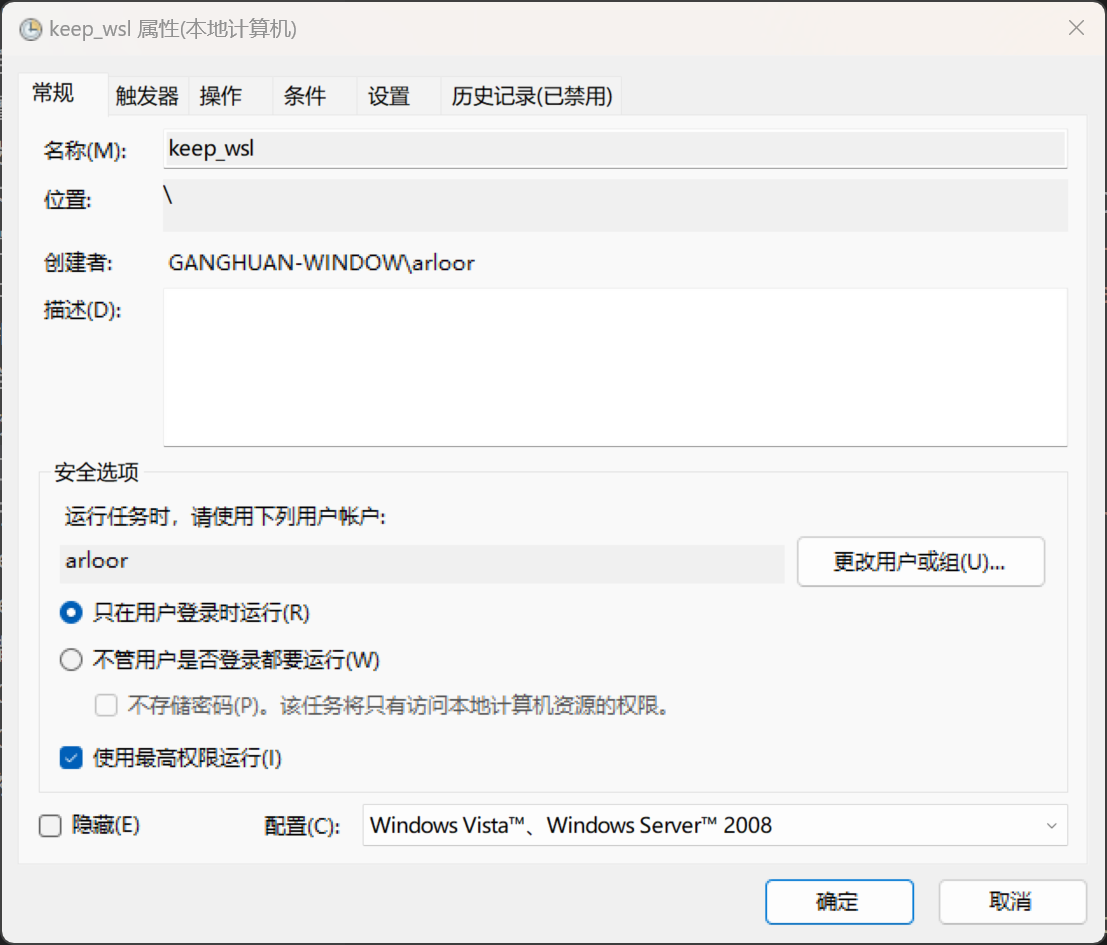
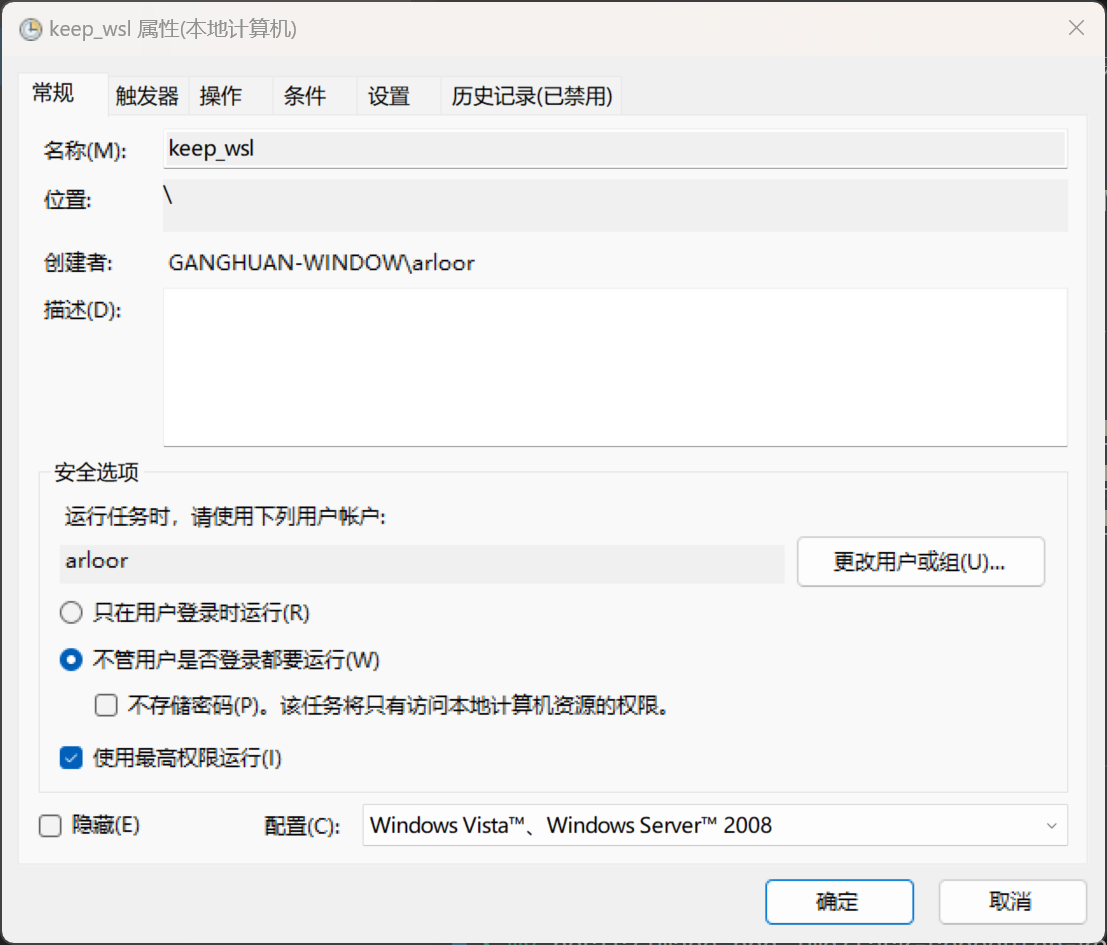
updates from 7b08df96

Changed region(s): [[0.0921, 0.7365, 0.6143, 0.7672], [0.0307, 0.6444, 0.0921, 0.7058], [0.9828, 0.982, 1.0, 1.0]]

diff --git a/posts/windows11-23h2-wsl2/index.html b/posts/windows11-23h2-wsl2/index.html
@@ -535,7 +535,7 @@ Built with <a href="https://gohugo.io">Hugo</a> ❤ <a href="https://github.c
 </span></span><span style="display:flex;"><span>ws.run <span style="color:#e6db74">&#34;wsl -d Debian /usr/local/bin/keepalive&#34;</span>, <span style="color:#ae81ff">0</span>
 </span></span></code></pre></div><p>将这个VBS脚本的快捷方式放到启动文件夹，这样就可以在开机时自动运行了。启动文件夹在：</p>
 <div class="highlight"><pre tabindex="0" style="color:#f8f8f2;background-color:#272822;-moz-tab-size:4;-o-tab-size:4;tab-size:4;"><code class="language-bash" data-lang="bash"><span style="display:flex;"><span>%userprofile%<span style="color:#ae81ff">\A</span>ppData<span style="color:#ae81ff">\R</span>oaming<span style="color:#ae81ff">\M</span>icrosoft<span style="color:#ae81ff">\W</span>indows<span style="color:#ae81ff">\S</span>tart Menu<span style="color:#ae81ff">\P</span>rograms<span style="color:#ae81ff">\S</span>tartup
-</span></span></code></pre></div><p>或者使用windows的任务计划程序设置为用户登录时自动运行：</p>
+</span></span></code></pre></div><p>或者使用windows的任务计划程序设置为用户登录时自动运行，参考<a href="https://www.sjdhome.com/blog/post/wsl2-auto-start/">实现 WSL 2 开机免登录自动启动</a>：</p>
 <p><img src="/img/task-scheduler-keep-wsl-1.png" alt="alt text">
 <img src="/img/task-scheduler-keep-wsl-2.png" alt="alt text">
 <img src="/img/task-scheduler-keep-wsl-3.png" alt="alt text"></p>
